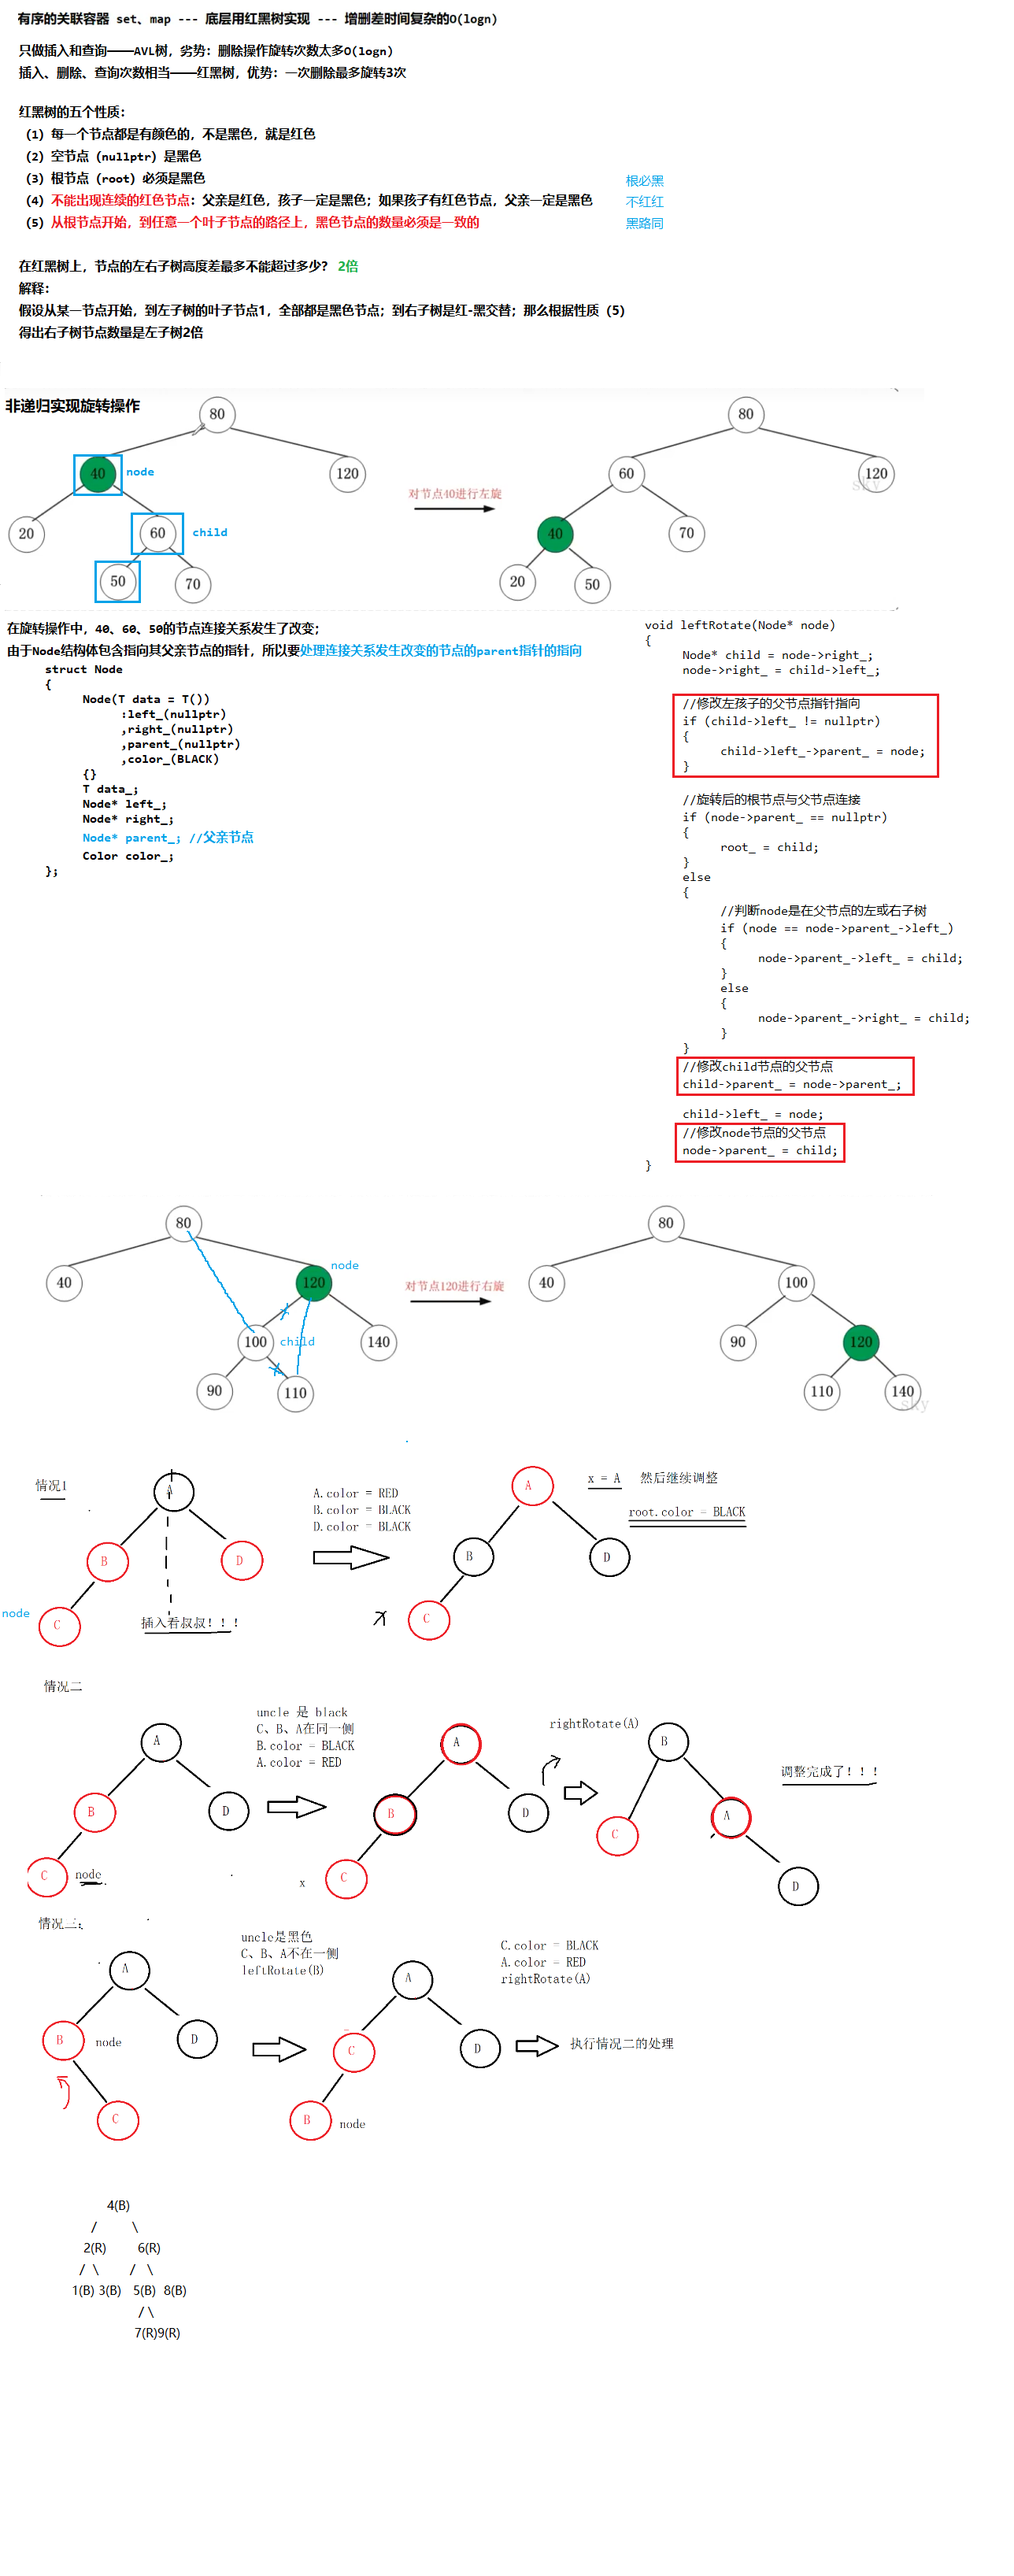
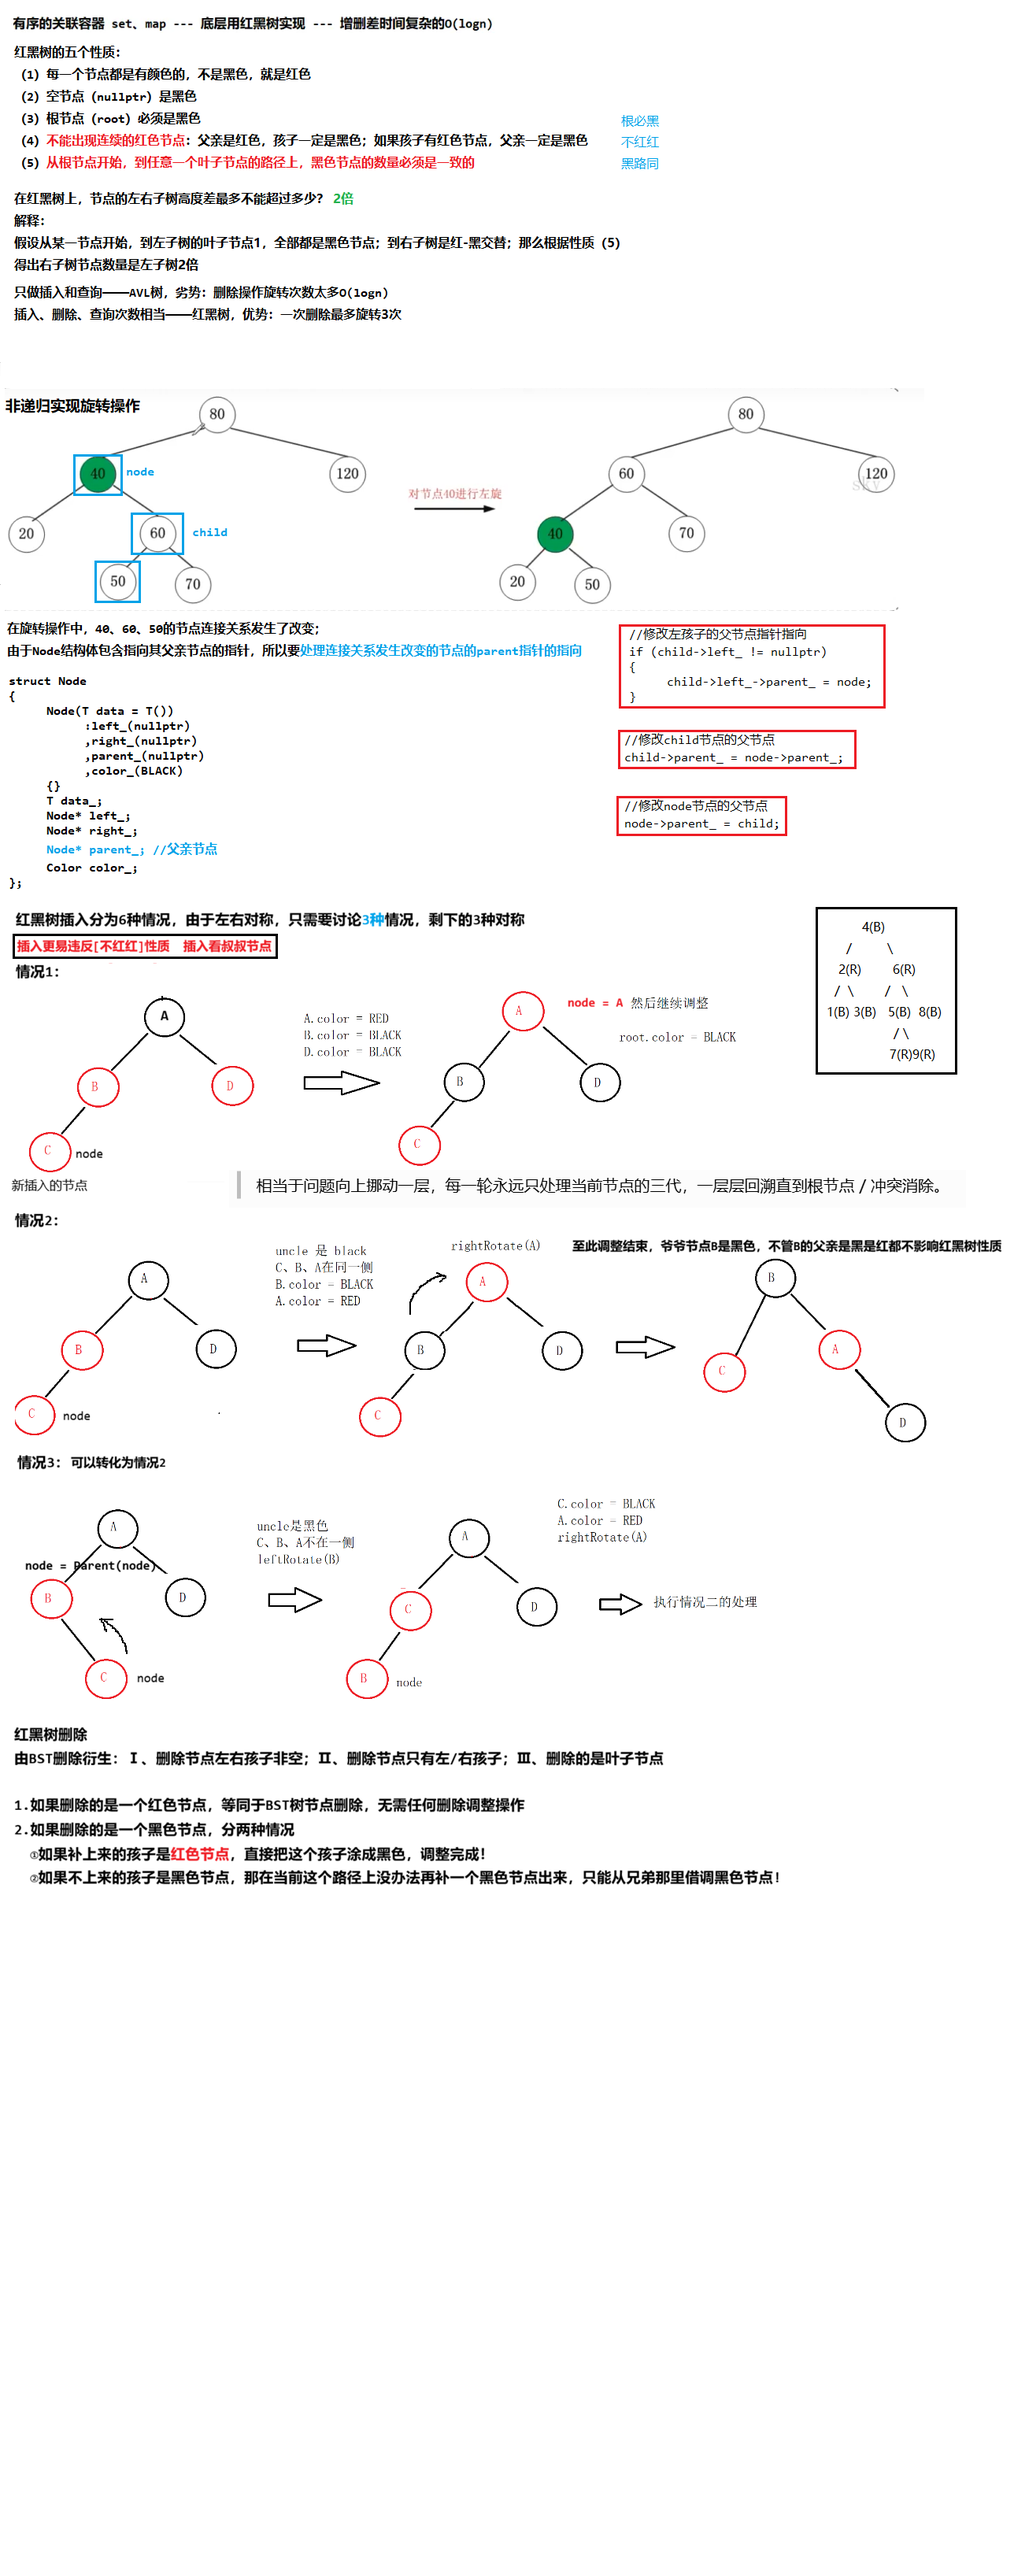
1

diff --git a/29 红黑树/29 红黑树/红黑树.cpp b/29 红黑树/29 红黑树/红黑树.cpp
@@ -56,6 +56,80 @@ private:
 	{
 		return node->parent_;
 	}
+	//在递归操作中只需要3行代码，旋转后的根节点与父亲节点的连接是在递归回溯时完成的，非递归操作需要加更多代码
+	//左旋转操作-非递归
+	void leftRotate(Node* node)
+	{
+		Node* child = node->right_;
+		node->right_ = child->left_;
+
+		//修改左孩子的父节点指针指向
+		if (child->left_ != nullptr)
+		{
+			child->left_->parent_ = node;
+		}
+
+		//旋转后的根节点与父节点连接
+		if (node->parent_ == nullptr)
+		{
+			root_ = child;
+		}
+		else
+		{
+			//判断node是在父节点的左或右子树
+			if (node->parent_->left_ == node)
+			{
+				node->parent_->left_ = child;
+			}
+			else
+			{
+				node->parent_->right_ = child;
+			}
+		}
+		//修改child节点的父节点
+		child->parent_ = node->parent_;
+
+		child->left_ = node;
+		//修改node节点的父节点
+		node->parent_ = child;
+	}
+	//右旋转操作-非递归
+	void rightRotate(Node* node)
+	{
+		Node* child = node->left_;
+		node->left_ = child->right_;
+
+		//child右孩子连接关系发生改变，修正其父节点指针
+		if (child->right_ != nullptr)
+		{
+			child->right_->parent_ = node;
+		}
+
+		// 旋转后的根节点与父节点连接
+		if (node->parent_ == nullptr)
+		{
+			root_ = child;
+		}
+		else
+		{
+			//判断node是在父节点的左或右子树
+			if (node->parent_->left_ == node)
+			{
+				node->parent_->left_ = child;
+			}
+			else
+			{
+				node->parent_->right_ = child;
+			}
+		}
+
+		//child节点连接关系发生改变，修正其父节点指针
+		child->parent_ = node->parent_;
+
+		child->right_ = node;
+		//修改node节点的父节点
+		node->parent_ = child;
+	}
 	//插入后进行调整
 	void fixAfterInsert(Node* node)
 	{
@@ -140,80 +214,6 @@ private:
 		setColor(root_, BLACK);
 	}
 public:
-	//在递归操作中只需要3行代码，旋转后的根节点与父亲节点的连接是在递归回溯时完成的，非递归操作需要加更多代码
-	//左旋转操作-非递归
-	void leftRotate(Node* node)
-	{
-		Node* child = node->right_;
-		node->right_ = child->left_;
-
-		//修改左孩子的父节点指针指向
-		if (child->left_ != nullptr)
-		{
-			child->left_->parent_ = node;
-		}
-
-		//旋转后的根节点与父节点连接
-		if (node->parent_ == nullptr)
-		{
-			root_ = child;
-		}
-		else
-		{
-			//判断node是在父节点的左或右子树
-			if (node->parent_->left_ == node)
-			{
-				node->parent_->left_ = child;
-			}
-			else 
-			{
-				node->parent_->right_ = child;
-			}
-		}
-		//修改child节点的父节点
-		child->parent_ = node->parent_;
-
-		child->left_ = node;
-		//修改node节点的父节点
-		node->parent_ = child;
-	}
-	//右旋转操作-非递归
-	void rightRotate(Node* node)
-	{
-		Node* child = node->left_;
-		node->left_ = child->right_;
-
-		//child右孩子连接关系发生改变，修正其父节点指针
-		if (child->right_ != nullptr)
-		{
-			child->right_->parent_ = node;
-		}
-
-		// 旋转后的根节点与父节点连接
-		if (node->parent_ == nullptr)
-		{
-			root_ = child;
-		}
-		else 
-		{
-			//判断node是在父节点的左或右子树
-			if (node->parent_->left_ == node)
-			{
-				node->parent_->left_ = child;
-			}
-			else 
-			{
-				node->parent_->right_ = child;
-			}
-		}
-
-		//child节点连接关系发生改变，修正其父节点指针
-		child->parent_ = node->parent_;
-
-		child->right_ = node;
-		//修改node节点的父节点
-		node->parent_ = child;
-	}
 	//插入操作-非递归
 	void insert(const T val)
 	{
@@ -252,6 +252,7 @@ public:
 		{
 			parent->right_ = node;
 		}
+		node->parent_ = parent;
 
 		//插入后，如果违反[不红红]，进行调整
 		if (RED == getColor(parent))
